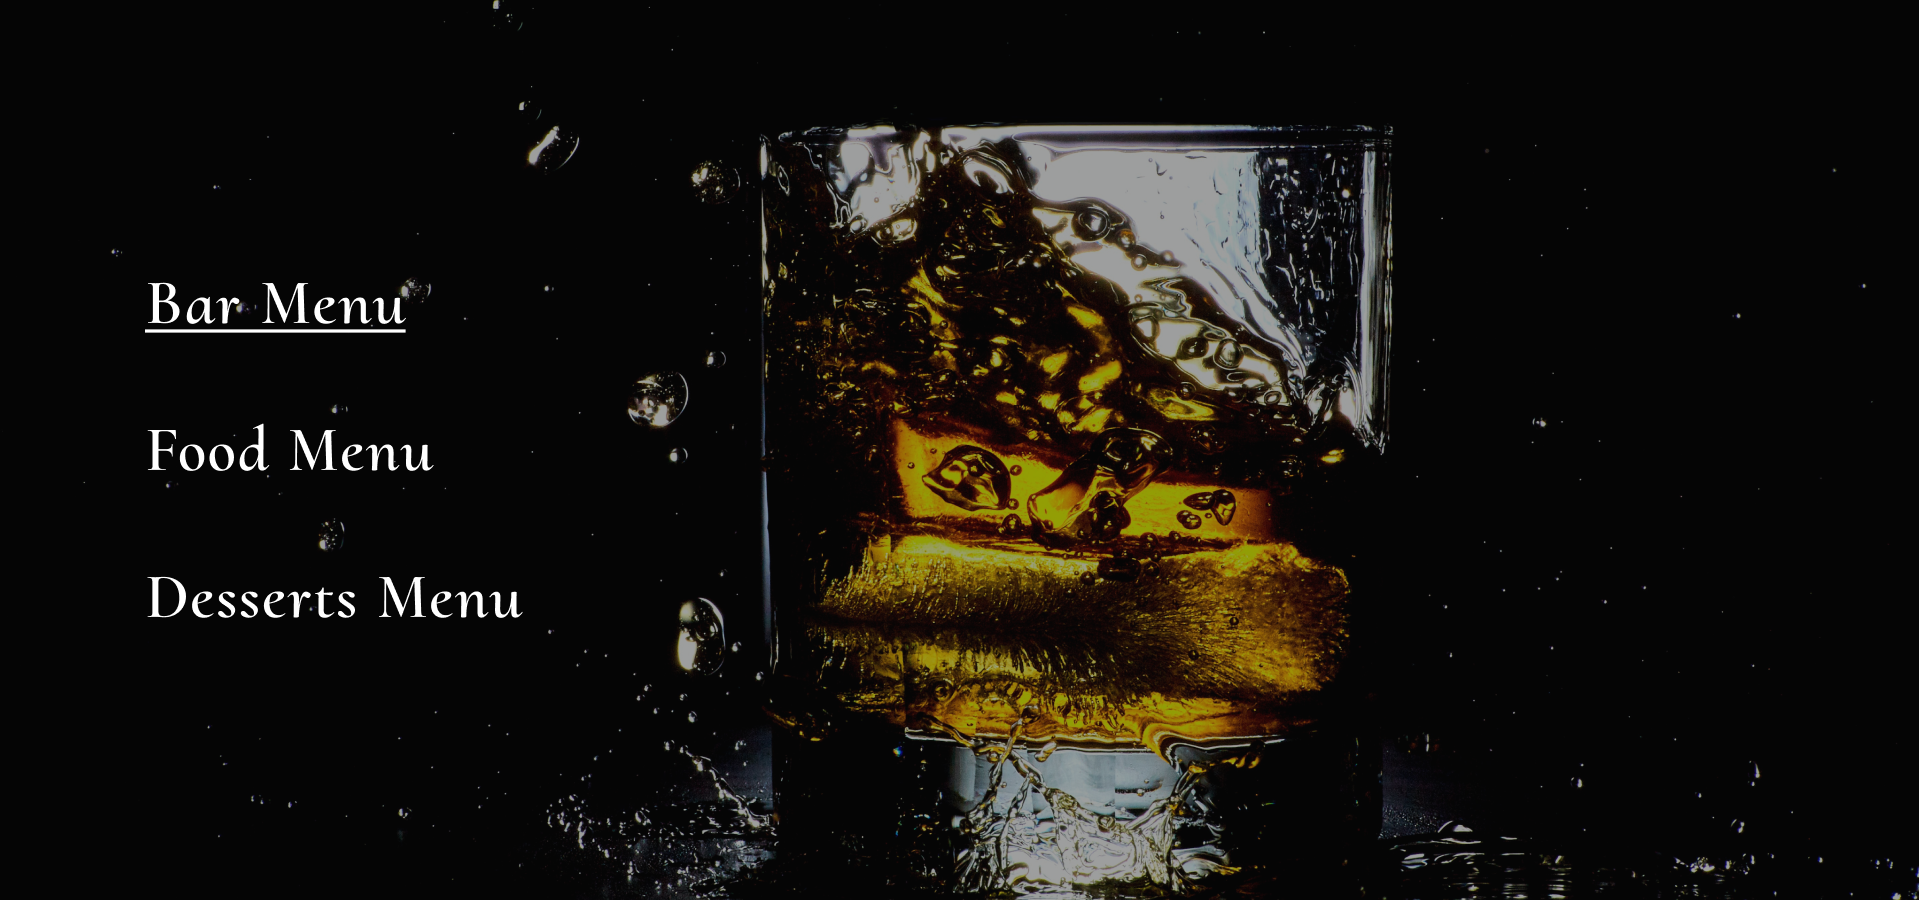
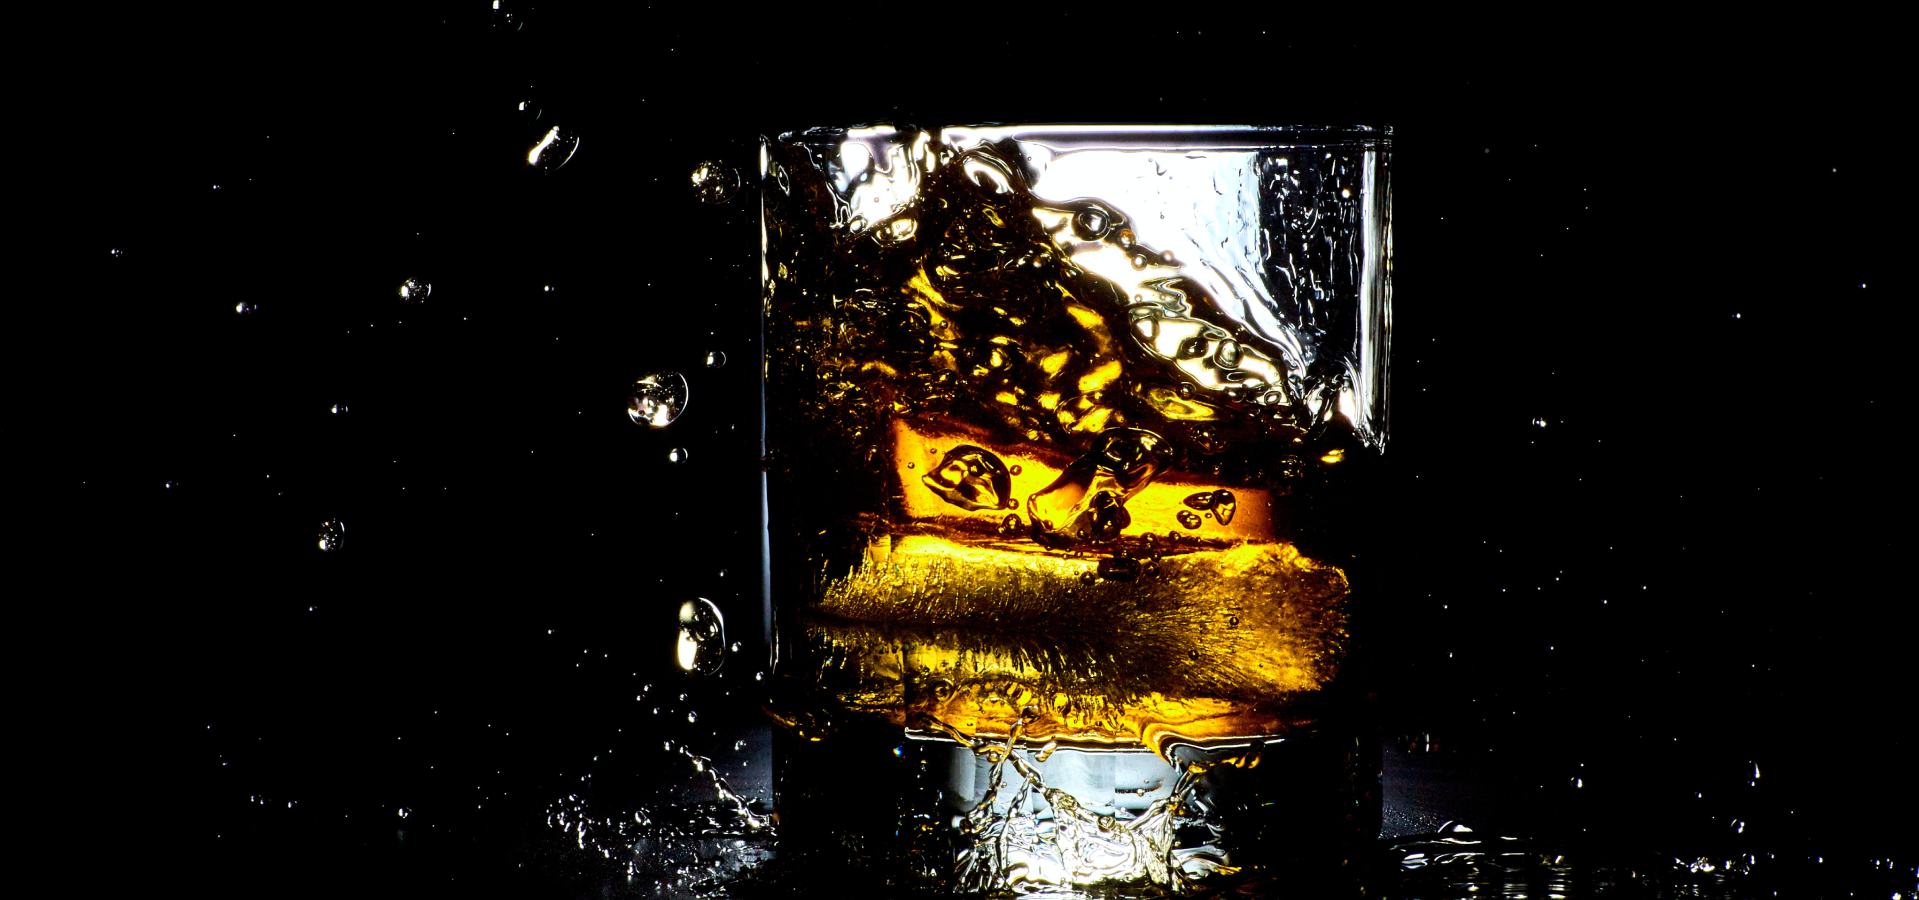
Finish menu section build

diff --git a/src/containers/Menu/Menu.css b/src/containers/Menu/Menu.css
@@ -1,0 +1,49 @@
+.menu {
+  padding-top: 16.3125rem;
+  padding-left: 9.0625rem;
+  padding-bottom: 16.375rem;
+  position: relative;
+}
+.menu__overlay {
+  position: absolute;
+  inset: 0;
+  background-color: black;
+  opacity: 0.4;
+}
+.menu__items {
+  display: flex;
+  flex-direction: column;
+  align-items: flex-start;
+  width: max-content;
+  position: relative;
+}
+.menu__item {
+  border-bottom: 4px solid transparent;
+  transition: all 0.5s ease-in-out;
+}
+.menu__item:hover {
+  border-bottom: 4px solid var(--priamry-color);
+}
+.menu__link {
+  font-style: normal;
+  font-size: 4rem;
+  font-weight: 600;
+  text-transform: capitalize;
+  line-height: 1.3;
+  letter-spacing: 0.03em;
+  color: var(--primary-color);
+}
+@media screen and (max-width: 1536px) {
+}
+@media screen and (max-width: 1280px) {
+}
+@media screen and (max-width: 900px) {
+}
+@media screen and (max-width: 600px) {
+  .menu {
+    padding: 4rem 2rem;
+  }
+  .menu__link {
+    font-size: 3rem;
+  }
+}

diff --git a/src/containers/Menu/Menu.js b/src/containers/Menu/Menu.js
@@ -1,7 +1,30 @@
 import React from 'react';
+import Bite from '../../components/Bite/Bite';
 import './Menu.css';
 
 const Menu = () => {
-  return <div>Menu</div>;
+  return (
+    <div className="menu background_glassful">
+      <div className="menu__overlay"></div>
+      <Bite position="top-left" />
+      <ul className="menu__items">
+        <li className="menu__item mr_bottom-4">
+          <a className="menu__link" href="#barmenu">
+            Bar Menu
+          </a>
+        </li>
+        <li className="menu__item mr_bottom-4">
+          <a className="menu__link" href="#foodmenu">
+            Food Menu
+          </a>
+        </li>
+        <li className="menu__item">
+          <a className="menu__link" href="#dessertmenu">
+            Dessert Menu
+          </a>
+        </li>
+      </ul>
+    </div>
+  );
 };
 export default Menu;

diff --git a/src/App.css b/src/App.css
@@ -1,4 +1,3 @@
-
 .title {
   font-family: var(--font-base);
   font-style: normal;
@@ -85,10 +84,18 @@
 }
 
 .background_marble {
-  background-image:url(./assets/images/background_marble.png);
+  background-image: url(./assets/images/background_marble.png);
   background-position: center;
   background-repeat: no-repeat;
   background-attachment: fixed;
+  background-size: cover;
+}
+.background_glassful {
+  background-image: url(./assets/images/background_menu.png);
+  background-position: center;
+  background-attachment: scroll;
+  background-repeat: no-repeat;
+  background-size: cover;
 }
 .mr_bottom-1 {
   margin-bottom: 1rem;
@@ -98,6 +105,9 @@
 }
 .mr_bottom-3 {
   margin-bottom: 3rem;
+}
+.mr_bottom-4 {
+  margin-bottom: 4rem;
 }
 .mr_bottom-05 {
   margin-bottom: 0.5rem;
